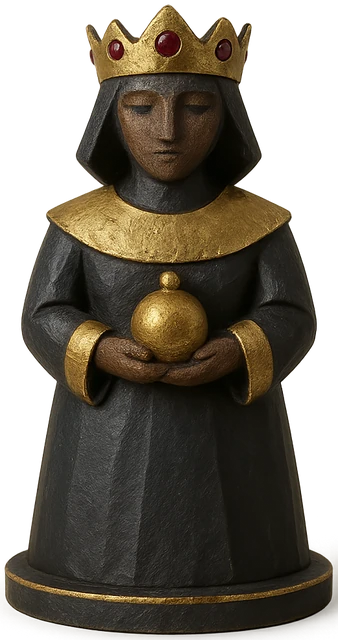
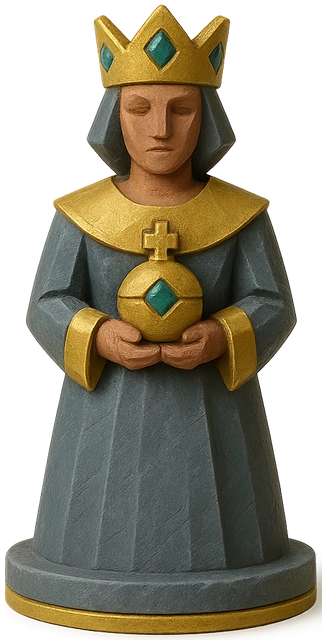
Geschnitzt: Materialien im Farbkreis auseinandergezogen, harte Kanten, gute gegen boese Seite
Die Umfaerbung war fragil, weil Haut (25 Grad) und Gold (45) im Quellbild dicht
beieinander lagen und weich ineinander liefen. Der Satz ist deshalb neu
geschnitten: die vier Materialien sitzen jetzt weit auseinander - Haut rosbraun
bei 10 Grad, Gold gelb bei 44, Smaragd bei 175, Stein blaugrau bei 220 und kaum
gesaettigt - und der Prompt verlangt harte Materialkanten statt weicher
Uebergaenge. Damit greifen die Masken sauber.

Der Quellsatz ist ausserdem mitteltonig statt fast schwarz. Wer von einem sehr
dunklen Original ausgeht, hat nach oben kaum Tonwerte uebrig und die helle
Mannschaft wird flach; aus der Mitte laesst sich in beide Richtungen spreizen.

Damit stehen sich zwei Seiten gegenueber statt zweier Anstriche: warmer
Elfenbeinstein mit Gold und lebendiger Haut gegen kalten Basalt mit Silber und
fahler, ausgekuehlter Haut. Drei der vier Materialien unterscheiden sich - das
traegt bis auf Brettdistanz.

Claude-Session: https://claude.ai/code/session_01TRXXCDjgLhw5shpN3KihMH

diff --git a/src/app/ui/board/carvedArt.js b/src/app/ui/board/carvedArt.js
@@ -4,13 +4,17 @@
 // third of his surface. Faces are only suggested (three cuts: eye hollows,
 // nose ridge, mouth line) so the pieces stay adult and quiet rather than cute.
 //
-// TWO STONES, NOT A FILTER. Only one set is ever generated — dark stone with
-// antique gold. tools/carve-teams.py cuts the two sides out of it:
-//   *-light   pale alabaster, the gold left standing   -> the player
-//   *-silver  the same dark stone, the inlay polished to silver -> the enemy
-// A CSS filter could only tint the whole figure, which dragged the inlay along
-// with it and turned the stone to flat grey. (Purple is deliberately unused
-// here — it is reserved for the monsters.)
+// TWO STONES, NOT A FILTER. Only one set is ever generated — a mid-tone slate
+// body with yellow gold inlay, rose-brown skin and emerald rank stones, cut so
+// that every material meets the next along a hard edge. tools/carve-teams.py
+// takes the two sides out of it:
+//   *-light  warm ivory stone, the gold left standing        -> the good side
+//   *-dark   cold basalt, the gold polished to silver, the
+//            skin drained to ash                             -> the other one
+// Three of the four materials therefore differ between the teams, which is what
+// makes them tell apart at board distance. A CSS filter could only tint the
+// whole figure and would drag inlay, skin and stones along with it. (Purple is
+// deliberately unused here — it is reserved for the monsters.)
 //
 // Only the six basic ranks are carved so far. Everything else — the court, the
 // bosses, the Gambit's tiers — keeps falling back to the painted gallery, so
@@ -21,24 +25,24 @@ import lBishop from "../assets/carved/carved-bishop-light.webp";
 import lRook from "../assets/carved/carved-rook-light.webp";
 import lQueen from "../assets/carved/carved-queen-light.webp";
 import lKing from "../assets/carved/carved-king-light.webp";
-import sPawn from "../assets/carved/carved-pawn-silver.webp";
-import sKnight from "../assets/carved/carved-knight-silver.webp";
-import sBishop from "../assets/carved/carved-bishop-silver.webp";
-import sRook from "../assets/carved/carved-rook-silver.webp";
-import sQueen from "../assets/carved/carved-queen-silver.webp";
-import sKing from "../assets/carved/carved-king-silver.webp";
+import dPawn from "../assets/carved/carved-pawn-dark.webp";
+import dKnight from "../assets/carved/carved-knight-dark.webp";
+import dBishop from "../assets/carved/carved-bishop-dark.webp";
+import dRook from "../assets/carved/carved-rook-dark.webp";
+import dQueen from "../assets/carved/carved-queen-dark.webp";
+import dKing from "../assets/carved/carved-king-dark.webp";
 
-/** the player's side: pale alabaster with the gold inlay left standing. */
+/** the good side: warm ivory stone, gold inlay, living skin. */
 export const CARVED_LIGHT = { P: lPawn, N: lKnight, B: lBishop, R: lRook, Q: lQueen, K: lKing };
-/** the opposing side: the same dark stone, its inlay polished to silver. */
-export const CARVED_SILVER = { P: sPawn, N: sKnight, B: sBishop, R: sRook, Q: sQueen, K: sKing };
+/** the other side: cold basalt, silver inlay, ashen skin. */
+export const CARVED_DARK = { P: dPawn, N: dKnight, B: dBishop, R: dRook, Q: dQueen, K: dKing };
 
 /** Carving for a live board piece — or null when this set has none yet.
  *  Bosses and the risen Gambit are deliberately excluded: they carry their own
  *  portraits, and a half-carved boss line would read as a bug, not a style. */
 export function carvedForPiece(piece) {
   if (!piece || piece.bossId || piece.hero) return null;
-  const set = piece.color === "w" ? CARVED_LIGHT : CARVED_SILVER;
+  const set = piece.color === "w" ? CARVED_LIGHT : CARVED_DARK;
   return set[piece.kind] || null;
 }
 

diff --git a/tools/carve-teams.py b/tools/carve-teams.py
@@ -1,43 +1,57 @@
 #!/usr/bin/env python3
 """Die Werkbank: rechnet aus EINEM geschnitzten Satz beide Mannschaften.
 
-Generiert wird nur ein Figurenteam: dunkler Stein, eingelegtes Antikgold, dazu
-Hautton an Gesicht und Haenden und kleine Rubine als Rangsteine. Hier entstehen
-daraus die zwei Seiten, die im Spiel gegeneinander stehen:
+Generiert wird nur ein Figurensatz - Koerper aus mittelgrauem Schieferstein, mit
+gelbem Antikgold eingelegt, Hautton an Gesicht und Haenden, Smaragde als
+Rangsteine. Daraus entstehen hier die zwei Seiten:
 
-  *-light.webp   heller Alabaster, Gold bleibt Gold     -> der Spieler
-  *-silver.webp  derselbe dunkle Stein, Gold wird Silber -> der Gegner
+  *-light.webp   heller Elfenbeinstein, Gold bleibt Gold      -> die gute Seite
+  *-dark.webp    kalter dunkler Basalt, Gold wird Silber,
+                 die Haut fahl und ausgekuehlt                -> die Gegenseite
 
-Beides ist gerechneter Stein, kein CSS-Filter: ein Filter toent immer das ganze
-Bild und zoege Einlage, Haut und Rubine gleich mit um.
+Das ist gerechneter Stein, kein CSS-Filter: ein Filter toent immer das ganze
+Bild und zoege Einlage, Haut und Steine gleich mit um.
 
-DIE VIER MATERIALIEN WERDEN UEBER DEN FARBTON GETRENNT. Das ist der heikle
-Punkt: Haut (rotbraun, ~25 Grad) und Gold (gelb, ~45 Grad) liegen dicht
-beieinander. Die Grenze zwischen beiden laeuft deshalb bei 34 Grad, und zusaetzlich
-muss Gold heller sitzen als die Haut - sonst wandert ein Gesicht mit ins Silber.
+WARUM DER QUELLSATZ MITTELGRAU IST. Wer von einem fast schwarzen Original
+ausgeht, hat nach oben kaum Tonwerte uebrig - die helle Mannschaft wird flach.
+Aus der Mitte heraus laesst sich in beide Richtungen spreizen, hell wie dunkel.
 
-    python3 tools/carve-teams.py
+WIE DIE VIER MATERIALIEN GETRENNT WERDEN. Ueber den Farbton, und der Quellsatz
+ist bewusst so angelegt, dass die vier weit auseinanderliegen: Haut rosbraun bei
+etwa 10 Grad, Gold gelb bei 44, Smaragd bei 175, Stein blaugrau bei 220 und
+dabei kaum gesaettigt. Frueher lagen Haut und Gold nur 20 Grad auseinander und
+liefen ineinander; jetzt sind es ueber 30 mit sauberer Kante im Bild selbst.
+
+    python3 tools/carve-teams.py [--masken]
 """
-import glob, os
+import glob, os, sys
 import numpy as np
 from PIL import Image
 from scipy import ndimage
 
 SRC = "src/app/ui/assets/carved"
-ABGELEITET = ("-light.webp", "-silver.webp", "-maske.png")
+ABGELEITET = ("-light.webp", "-dark.webp", "-maske.png")
 
-# Creme-Rampe fuer den hellen Stein: Schatten warm gebrochen, Lichter fast weiss.
-SCHATTEN = np.array([0.35, 0.31, 0.26])
-LICHT    = np.array([0.97, 0.94, 0.87])
-
-# Silber-Rampe fuer die Einlage der Gegenseite: kuehl, hell, mit Biss in den
-# Lichtern, damit es glaenzt statt nur grau zu sein.
+# Der Stein der guten Seite: warmes Elfenbein, Schatten gebrochen statt grau.
+E_TIEF = np.array([0.42, 0.39, 0.34])
+E_HOCH = np.array([0.99, 0.97, 0.92])
+# Der Stein der Gegenseite: kalter Basalt, deutlich dunkler und blaeulich.
+B_TIEF = np.array([0.055, 0.065, 0.085])
+B_HOCH = np.array([0.44, 0.47, 0.53])
+# Silber fuer die Einlage der Gegenseite: kuehl, hell, mit Biss in den Lichtern.
 S_TIEF = np.array([0.30, 0.32, 0.37])
 S_HOCH = np.array([0.96, 0.97, 1.00])
 
-# Farbtongrenzen, in Umdrehungen (0..1) statt Grad.
-HAUT_VON, HAUT_BIS = 0.015, 0.094      #   5 - 34 Grad, rotbraun
-GOLD_VON, GOLD_BIS = 0.094, 0.175      #  34 - 63 Grad, gelb
+# Der Schiefer des Quellsatzes liegt etwa zwischen diesen Helligkeiten. Genau
+# dieses Band wird gespreizt - sonst bliebe die Figur ein flacher Fleck ohne
+# Werkzeugspur.
+STEIN_VON, STEIN_BIS = 0.14, 0.78
+
+# Farbtonfenster in Umdrehungen (0..1) statt Grad.
+GOLD_VON, GOLD_BIS = 0.075, 0.190      #  27 - 68 Grad, gelb
+HAUT_BIS           = 0.075             #   0 - 27 Grad, rosbraun
+HAUT_UM            = 0.955             # und alles ab 344 Grad herum
+SMA_VON, SMA_BIS   = 0.390, 0.600      # 140 - 216 Grad, gruen bis blaugruen
 
 
 def zerlegen(im):
@@ -53,100 +67,90 @@ def zerlegen(im):
     return rgb, h, s, v
 
 
-def _schliessen(maske, radius=5):
-    """Eine reine Pixelmaske ist loechrig: die tiefsten Schatten und die
-    hellsten Glanzlichter eines Gesichts fallen aus dem Farbtonfenster heraus.
-    Blieben diese Loecher stehen, wuerde die Creme-Rampe mitten durchs Gesicht
-    sprenkeln. Also erst schliessen, dann Loecher fuellen - danach ist eine
-    Wange eine Flaeche und kein Punktraster."""
+def _schliessen(maske, radius):
+    """Eine reine Pixelmaske ist loechrig: die tiefsten Schatten und hellsten
+    Glanzlichter einer Wange fallen aus dem Farbtonfenster heraus. Blieben diese
+    Loecher stehen, sprenkelte die Steinrampe mitten durchs Gesicht. Also erst
+    schliessen, dann Loecher fuellen - danach ist eine Wange eine Flaeche."""
     if not maske.any():
         return maske
     y, x = np.ogrid[-radius:radius + 1, -radius:radius + 1]
     kern = x * x + y * y <= radius * radius
-    zu = ndimage.binary_closing(maske, structure=kern)
-    return ndimage.binary_fill_holes(zu)
+    return ndimage.binary_fill_holes(ndimage.binary_closing(maske, structure=kern))
 
 
 def masken(h, s, v):
-    """Gold, Haut und Rubin voneinander und vom Stein trennen."""
-    gold = (h >= GOLD_VON) & (h < GOLD_BIS) & (s > 0.20) & (v > 0.34)
-    haut = (h >= HAUT_VON) & (h < HAUT_BIS) & (s > 0.20) & (s < 0.75) & (v > 0.26)
-    # Rubin liegt am Farbkreis ganz aussen herum - sowohl knapp ueber 0 als auch
-    # knapp unter 1 ist Rot. Er muss deutlich gesaettigter sein als jede Haut.
-    rubin = ((h < HAUT_VON) | (h > 0.92)) & (s > 0.35)
-
+    """Gold, Haut und Rangstein voneinander und vom Stein trennen."""
+    gold = (h >= GOLD_VON) & (h < GOLD_BIS) & (s > 0.22) & (v > 0.30)
+    haut = ((h < HAUT_BIS) | (h > HAUT_UM)) & (s > 0.15) & (s < 0.80) & (v > 0.22)
+    stein_ = (h >= SMA_VON) & (h < SMA_BIS) & (s > 0.28) & (v > 0.12)   # Smaragd
     haut = _schliessen(haut, 6)
-    gold = _schliessen(gold, 4) & ~haut     # Haut gewinnt an der Grenze
-    rubin = _schliessen(rubin, 3)
-    return gold, haut, rubin
+    gold = _schliessen(gold, 4) & ~haut          # an der Grenze gewinnt die Haut
+    return gold, haut, _schliessen(stein_, 3)
+
+
+def _rampe(v, tief, hoch, gamma=0.85):
+    t = np.clip((v - STEIN_VON) / (STEIN_BIS - STEIN_VON), 0, 1) ** gamma
+    return tief + (hoch - tief) * t[..., None]
 
 
 def hell(pfad, ziel):
-    """Alabaster-Team: nur der Stein wird gehoben, alles andere bleibt."""
+    """Die gute Seite: Stein zu Elfenbein, alles andere bleibt stehen."""
     im = Image.open(pfad).convert("RGBA")
     rgb, h, s, v = zerlegen(im)
-    gold, haut, rubin = masken(h, s, v)
-    behalten = gold | haut | rubin
-    # Der Navy-Stein sitzt eng zwischen ~0.05 und ~0.40 - genau dieses Band wird
-    # gedehnt, sonst bliebe die Figur ein grauer Fleck ohne Werkzeugspur.
-    t = np.clip((v - 0.045) / 0.36, 0, 1) ** 0.82
-    stein = SCHATTEN + (LICHT - SCHATTEN) * t[..., None]
-    _sichern(np.where(behalten[..., None], rgb, stein), im, ziel)
+    gold, haut, stein_ = masken(h, s, v)
+    behalten = gold | haut | stein_
+    _sichern(np.where(behalten[..., None], rgb, _rampe(v, E_TIEF, E_HOCH)), im, ziel)
 
 
-def silber(pfad, ziel):
-    """Gegner-Team: Stein bleibt dunkel, die Einlage wird poliertes Silber,
-    die Haut eine Spur kuehler und blasser - dieselbe Art, andere Seite."""
+def dunkel(pfad, ziel):
+    """Die Gegenseite: kalter Basalt, Silber statt Gold, fahle Haut."""
     im = Image.open(pfad).convert("RGBA")
     rgb, h, s, v = zerlegen(im)
-    gold, haut, rubin = masken(h, s, v)
+    gold, haut, stein_ = masken(h, s, v)
 
     t = np.clip((v - 0.10) / 0.72, 0, 1) ** 0.78
     einlage = S_TIEF + (S_HOCH - S_TIEF) * t[..., None]
-
-    # Haut kuehlen: Saettigung zurueck, Blauanteil leicht anheben.
+    # Haut auskuehlen: Saettigung stark zurueck, Blaugruen leicht dazu. Aus
+    # einem lebendigen Gesicht wird ein steinernes - dasselbe Volk, andere Seite.
     grau = rgb.mean(-1, keepdims=True)
-    kuehl = np.clip(grau + (rgb - grau) * 0.55 + np.array([-0.02, 0.0, 0.045]), 0, 1)
+    fahl = np.clip(grau * 0.88 + (rgb - grau) * 0.30 + np.array([-0.03, 0.0, 0.02]), 0, 1)
 
-    out = np.where(gold[..., None], einlage, rgb)
-    out = np.where(haut[..., None], kuehl, out)
+    out = _rampe(v, B_TIEF, B_HOCH)
+    out = np.where(stein_[..., None], rgb, out)
+    out = np.where(gold[..., None], einlage, out)
+    out = np.where(haut[..., None], fahl, out)
     _sichern(out, im, ziel)
 
 
 def maskenbild(pfad, ziel):
-    """Kontrollbild: Gold gelb, Haut magenta, Rubin gruen, Stein schwarz.
-    Nur zum Nachsehen, ob die Trennung wirklich sitzt - wird nicht ausgeliefert."""
+    """Kontrollbild: Gold gelb, Haut magenta, Rangstein gruen, Stein schwarz."""
     im = Image.open(pfad).convert("RGBA")
     _, h, s, v = zerlegen(im)
-    gold, haut, rubin = masken(h, s, v)
+    gold, haut, stein_ = masken(h, s, v)
     out = np.zeros(h.shape + (3,), dtype=np.float32)
     out[gold] = [1, 0.85, 0.1]
     out[haut] = [1, 0.2, 0.8]
-    out[rubin] = [0.2, 1, 0.3]
+    out[stein_] = [0.2, 1, 0.3]
     _sichern(out, im, ziel, fmt="PNG")
 
 
 def _sichern(out, im, ziel, fmt="WEBP"):
     alpha = np.asarray(im)[..., 3]
-    out = np.clip(out * 255, 0, 255).astype(np.uint8)
-    bild = Image.fromarray(np.dstack([out, alpha]), "RGBA")
-    if fmt == "WEBP":
-        bild.save(ziel, "WEBP", quality=90, method=6)
-    else:
-        bild.save(ziel)
+    bild = Image.fromarray(np.dstack([np.clip(out * 255, 0, 255).astype(np.uint8), alpha]), "RGBA")
+    bild.save(ziel, "WEBP", quality=92, method=6) if fmt == "WEBP" else bild.save(ziel)
 
 
 if __name__ == "__main__":
-    import sys
     kontrolle = "--masken" in sys.argv
     n = 0
     for f in sorted(glob.glob(os.path.join(SRC, "carved-*.webp"))):
         if f.endswith(ABGELEITET):
             continue
         hell(f, f.replace(".webp", "-light.webp"))
-        silber(f, f.replace(".webp", "-silver.webp"))
+        dunkel(f, f.replace(".webp", "-dark.webp"))
         if kontrolle:
             maskenbild(f, f.replace(".webp", "-maske.png"))
         n += 1
         print("abgeleitet:", os.path.basename(f))
-    print(f"carve-teams: {n} Figuren, je hell und silber")
+    print(f"carve-teams: {n} Figuren, je hell und dunkel")
